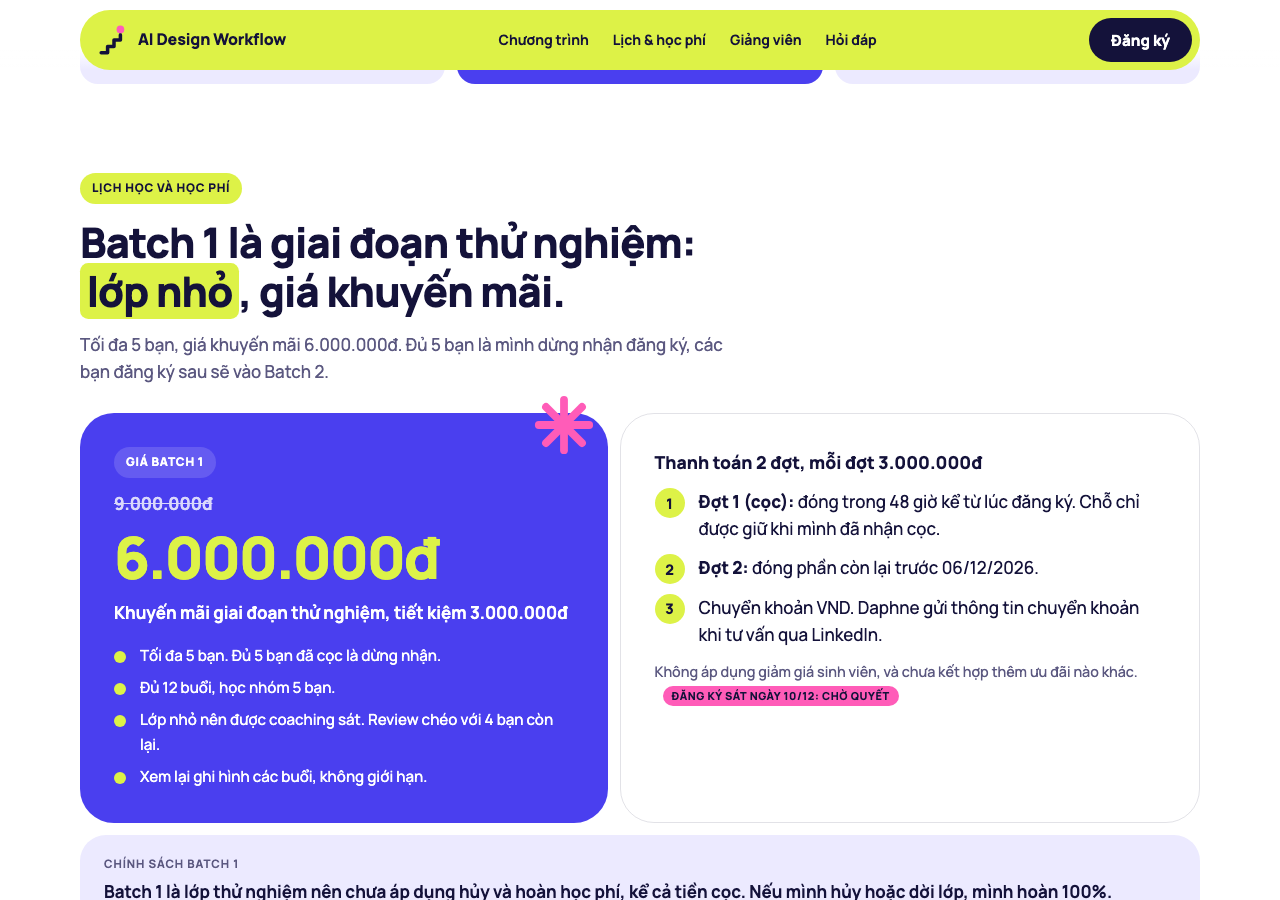
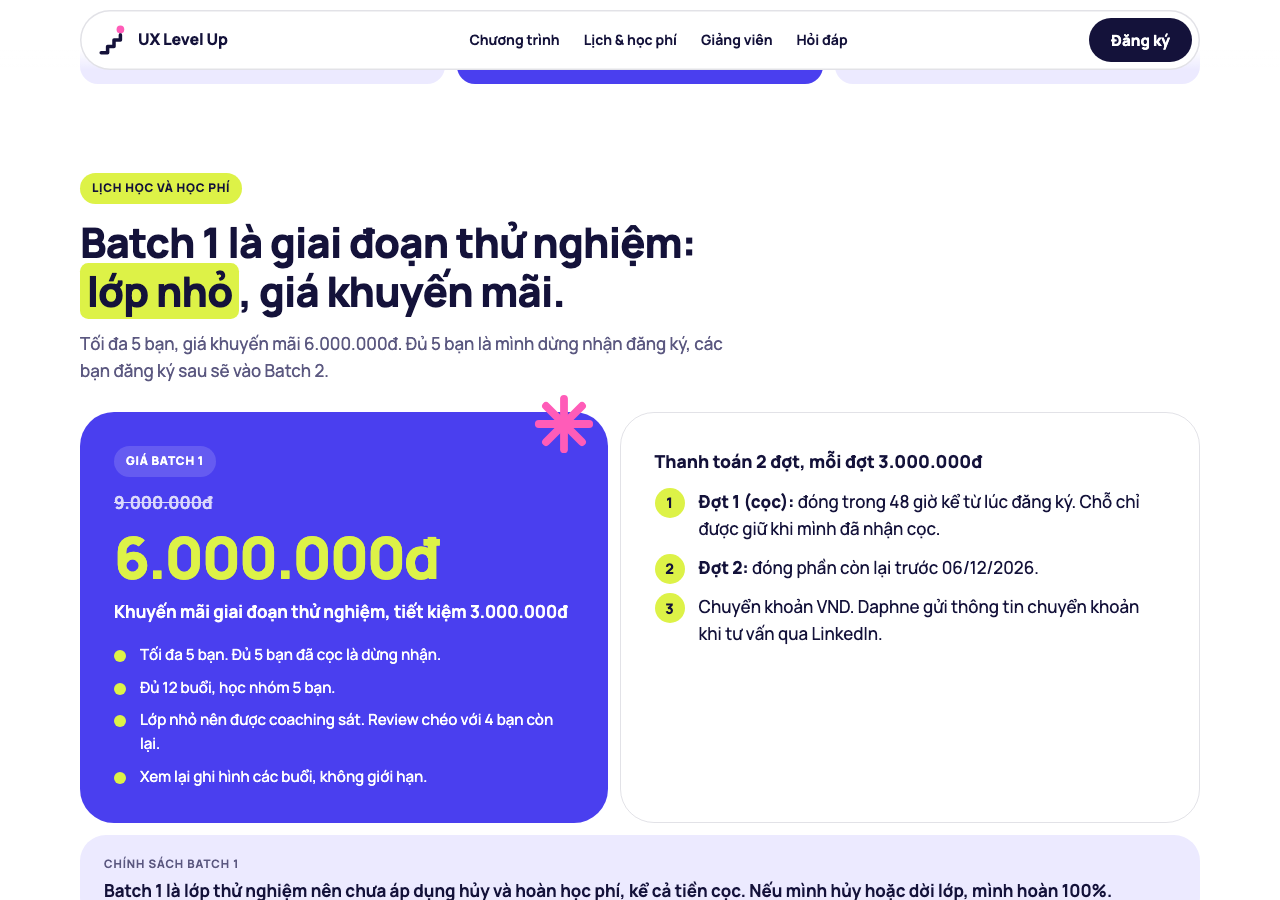
Remove resolved draft chips and the discount note

diff --git a/site/public/landing-v2/index.html b/site/public/landing-v2/index.html
@@ -369,14 +369,14 @@ footer .wrap{display:flex;flex-wrap:wrap;gap:12px 28px;align-items:center;justif
   <div class="head">
     <span class="kick">Chương trình</span>
     <h2 class="h2">Sáu tuần, mỗi tuần <em>một bậc</em>. Học một buổi, làm một buổi.</h2>
-    <p class="sub">Mỗi tuần: buổi theory 90 phút (khái niệm, activity ngắn), rồi buổi practice 90 phút (làm trên project của bạn, có coaching). Bài về nhà dưới 20 phút. <span class="draft">nhãn stage: Winnie xác nhận</span> <span class="draft">bài về nhà: 20 hay 45 phút?</span></p>
+    <p class="sub">Mỗi tuần: buổi theory 90 phút (khái niệm, activity ngắn), rồi buổi practice 90 phút (làm trên project của bạn, có coaching). Bài về nhà dưới 20 phút.</p>
   </div>
   <div class="levels">
     <article class="level"><small>Tuần 1 · Foundation</small><h3>Quy trình thiết kế với AI</h3><p>Nghề đang đi đâu. AI giúp được gì ở từng stage và còn yếu ở đâu. Dữ liệu nào an toàn để đưa cho AI.</p><div class="out"><b>Cuối tuần bạn có</b>Project folder, quy tắc dữ liệu riêng, Knowledge Hub bắt đầu</div></article>
     <article class="level"><small>Tuần 2 · Discover</small><h3>Hiểu vấn đề</h3><p>Bắt đầu từ business question, không phải từ brief có sẵn. Tách điều đã xác nhận khỏi giả định. Chuẩn bị phỏng vấn người dùng.</p><div class="out"><b>Cuối tuần bạn có</b>Câu hỏi nghiên cứu, danh sách giả định, phân tích đối thủ</div></article>
     <article class="level"><small>Tuần 3 · Discover và Define</small><h3>Insight đáng tin</h3><p>Tổng hợp quote cùng AI mà vẫn giữ nguyên văn. Persona, journey map, opportunity: mỗi dòng dẫn về một quote có ID.</p><div class="out"><b>Cuối tuần bạn có</b>Evidence pack và problem brief</div></article>
-    <article class="level"><small>Tuần 4 · Define và Develop</small><h3>Khám phá ý tưởng</h3><p>Hypothesis, How might we, sketch giấy rồi mới đến AI. Chọn hướng và ghi lại lý do.</p><div class="out"><b>Cuối tuần bạn có</b>Một hướng đã chọn và user flow <span class="draft">brief ghi "ba hướng khác nhau": xác nhận</span></div></article>
-    <article class="level"><small>Tuần 5 · Develop</small><h3>AI prototyping</h3><p>Viết design system notes và rules file để AI đọc được. Dựng luồng chính từng màn hình. Kiểm tra những gì AI thật sự đã sửa.</p><div class="out"><b>Cuối tuần bạn có</b>Prototype sẵn sàng đem đi test <span class="draft">brief ghi thêm "tình huống lỗi, màn hình nhỏ, tiếp cận": xác nhận</span></div></article>
+    <article class="level"><small>Tuần 4 · Define và Develop</small><h3>Khám phá ý tưởng</h3><p>Hypothesis, How might we, sketch giấy rồi mới đến AI. Chọn hướng và ghi lại lý do.</p><div class="out"><b>Cuối tuần bạn có</b>Một hướng đã chọn và user flow</div></article>
+    <article class="level"><small>Tuần 5 · Develop</small><h3>AI prototyping</h3><p>Viết design system notes và rules file để AI đọc được. Dựng luồng chính từng màn hình. Kiểm tra những gì AI thật sự đã sửa.</p><div class="out"><b>Cuối tuần bạn có</b>Prototype sẵn sàng đem đi test</div></article>
     <article class="level"><small>Tuần 6 · Test</small><h3>Test với người dùng thật</h3><p>UX audit, metrics, test plan, phân tích kết quả. Vì sao người dùng do AI mô phỏng không thay được người dùng thật.</p><div class="out"><b>Cuối tuần bạn có</b>Prototype đã test và Knowledge Hub đầy đủ</div></article>
   </div>
   <p class="rhythm"><b>Buổi 12 (reflection và wrap-up):</b> xem lại project, quyết định phần workflow nào giữ, chỉnh hoặc bỏ, và xem lại hướng đi nghề bạn viết ở tuần 1.</p>
@@ -392,19 +392,19 @@ footer .wrap{display:flex;flex-wrap:wrap;gap:12px 28px;align-items:center;justif
   <ol class="out3">
     <li><b>Một workflow end-to-end, lặp lại được</b><p>Từ business question đến prototype đã test. Output của mỗi bước là input của bước sau, và mỗi output đều qua một bước kiểm tra.</p></li>
     <li><b>Một Knowledge Hub</b><p>Mọi insight, quyết định và tài liệu ở một chỗ, truy ngược được về nguồn. Hub riêng tư mặc định, nằm trong project folder của bạn.</p></li>
-    <li><b>Một project đã chạy qua workflow đó</b><p>Có bằng chứng, có quyết định, có kết quả từ người dùng thật. <span class="draft">xác nhận: dùng cho portfolio nếu là project công ty</span></p></li>
+    <li><b>Một project đã chạy qua workflow đó</b><p>Có bằng chứng, có quyết định, có kết quả từ người dùng thật.</p></li>
   </ol>
   <h3 class="sub-h" style="margin-top:34px">Học xong, bạn có thể</h3>
   <ol class="can">
     <li>Chạy một workflow thiết kế có AI từ business question đến prototype đã test trên project của chính mình, và giải thích vì sao mỗi bước nằm ở đó.</li>
     <li>Kiểm tra output của AI: truy từng insight về quote gốc, từng decision về evidence, và ghi rõ điều nào đã xác nhận, điều nào chỉ là giả định.</li>
     <li>Dùng AI an toàn: biết dữ liệu nào đưa được, dữ liệu nào cần hỏi trước, dữ liệu nào không bao giờ đưa vào công cụ công khai.</li>
-    <li>Làm việc như một partner của product và business: bắt đầu từ business question, thống nhất outcome trước khi thiết kế. <span class="draft">brief ghi thêm "và cách đo": xác nhận</span></li>
+    <li>Làm việc như một partner của product và business: bắt đầu từ business question, thống nhất outcome trước khi thiết kế.</li>
     <li>Dựng prototype chạy được bằng AI coding tool, test với người dùng thật và sửa theo finding, mà không phải tự viết code.</li>
     <li>Trình bày project cùng evidence, decision và trade-off, và đánh giá phần nào của workflow nên giữ, chỉnh hay bỏ.</li>
   </ol>
   <div class="promise">
-    <h3>Mình cam kết điều gì, và không cam kết điều gì <span class="draft">Winnie duyệt</span></h3>
+    <h3>Mình cam kết điều gì, và không cam kết điều gì</h3>
     <p>Khóa này không cam kết kết quả nghề nghiệp như tăng lương hay đổi việc, vì kết quả đó còn phụ thuộc nhiều thứ ngoài lớp học. Điều khóa cam kết là output: khi kết thúc, bạn có một workflow thiết kế end-to-end dùng AI đã chạy trên project của mình, và bạn giải thích được từng bước của nó.</p>
   </div>
   <p class="know"><b>Cách bạn biết mình tiến bộ:</b> giải thích được khái niệm bằng lời của mình (Know), có một file thật trong project folder (Do), trình bày và nhận review chéo (Show).</p>
@@ -455,7 +455,6 @@ footer .wrap{display:flex;flex-wrap:wrap;gap:12px 28px;align-items:center;justif
         <li><b>Đợt 2:</b> đóng phần còn lại trước 06/12/2026.</li>
         <li>Chuyển khoản VND. Daphne gửi thông tin chuyển khoản khi tư vấn qua LinkedIn.</li>
       </ol>
-      <p class="note">Không áp dụng giảm giá sinh viên, và chưa kết hợp thêm ưu đãi nào khác. <span class="draft">đăng ký sát ngày 10/12: chờ quyết</span></p>
     </div>
   </div>
   <div class="policy"><small>Chính sách Batch 1</small>Batch 1 là lớp thử nghiệm nên chưa áp dụng hủy và hoàn học phí, kể cả tiền cọc. Nếu mình hủy hoặc dời lớp, mình hoàn 100%.</div>
@@ -487,12 +486,12 @@ footer .wrap{display:flex;flex-wrap:wrap;gap:12px 28px;align-items:center;justif
     <h2 class="h2">Ai dạy và ai <em>lo lớp</em> của bạn.</h2>
   </div>
   <div class="people">
-    <div class="person"><div class="avatar" aria-hidden="true">W</div><div><h3>Winnie Nguyen</h3><div class="role">Giảng viên</div><p>Senior Product Designer, hơn 11 năm kinh nghiệm (NAB, Go1). Winnie nhìn designer ở nhiều giai đoạn: kỹ năng đã có, thứ thiếu là một quy trình rõ ràng để biến kỹ năng thành kết quả. <span class="draft">bio: Winnie duyệt</span></p></div></div>
+    <div class="person"><div class="avatar" aria-hidden="true">W</div><div><h3>Winnie Nguyen</h3><div class="role">Giảng viên</div><p>Senior Product Designer, hơn 11 năm kinh nghiệm (NAB, Go1). Winnie nhìn designer ở nhiều giai đoạn: kỹ năng đã có, thứ thiếu là một quy trình rõ ràng để biến kỹ năng thành kết quả.</p></div></div>
     <div class="person"><div class="avatar" aria-hidden="true">D</div><div><h3>Daphne Huynh</h3><div class="role">Co-founder, lo vận hành</div><p>Daphne lo vận hành khóa: đăng ký, liên hệ học viên, lịch học và ghi hình. Daphne cũng là Co-founder của Breaking into Product Management (BPM). <a href="https://www.linkedin.com/in/daphne-huynh/" rel="noopener">LinkedIn</a> <span class="draft">ảnh và giới thiệu: điền sau</span></p></div></div>
   </div>
 
   <h3 class="sub-h">Mentee của Winnie nói gì</h3>
-  <p class="note" style="margin-top:0">Đây là đánh giá công khai trên ADPList về mentoring 1:1 với Winnie, chưa phải đánh giá về khóa này. <span class="draft">xác nhận quyền đăng, cập nhật trước khi đăng</span></p>
+  <p class="note" style="margin-top:0">Đây là đánh giá công khai trên ADPList về mentoring 1:1 với Winnie, chưa phải đánh giá về khóa này.</p>
   <div class="quotes">
     <blockquote class="quote" style="margin:0"><p>"My first session with Winnie was really amazing. She is such a structural mentor who gives the whole picture and easy to comprehend at the same time."</p><cite>Đạt Nguyễn Hoàng Hữu<span>Product Designer, ChoTot (Carousell) · 09/06/2026</span></cite></blockquote>
     <blockquote class="quote" style="margin:0"><p>"Winnie is super nice and professional! She gave me insightful suggestions and clear direction, which really helped me reflect on how to improve. She also shared lots of helpful resources that will definitely support me in growing my skillset. I truly appreciate her time and generosity—highly recommended!"</p><cite>Wendy Lin<span>UX/UI Designer, freelance · 12/07/2025</span></cite></blockquote>
